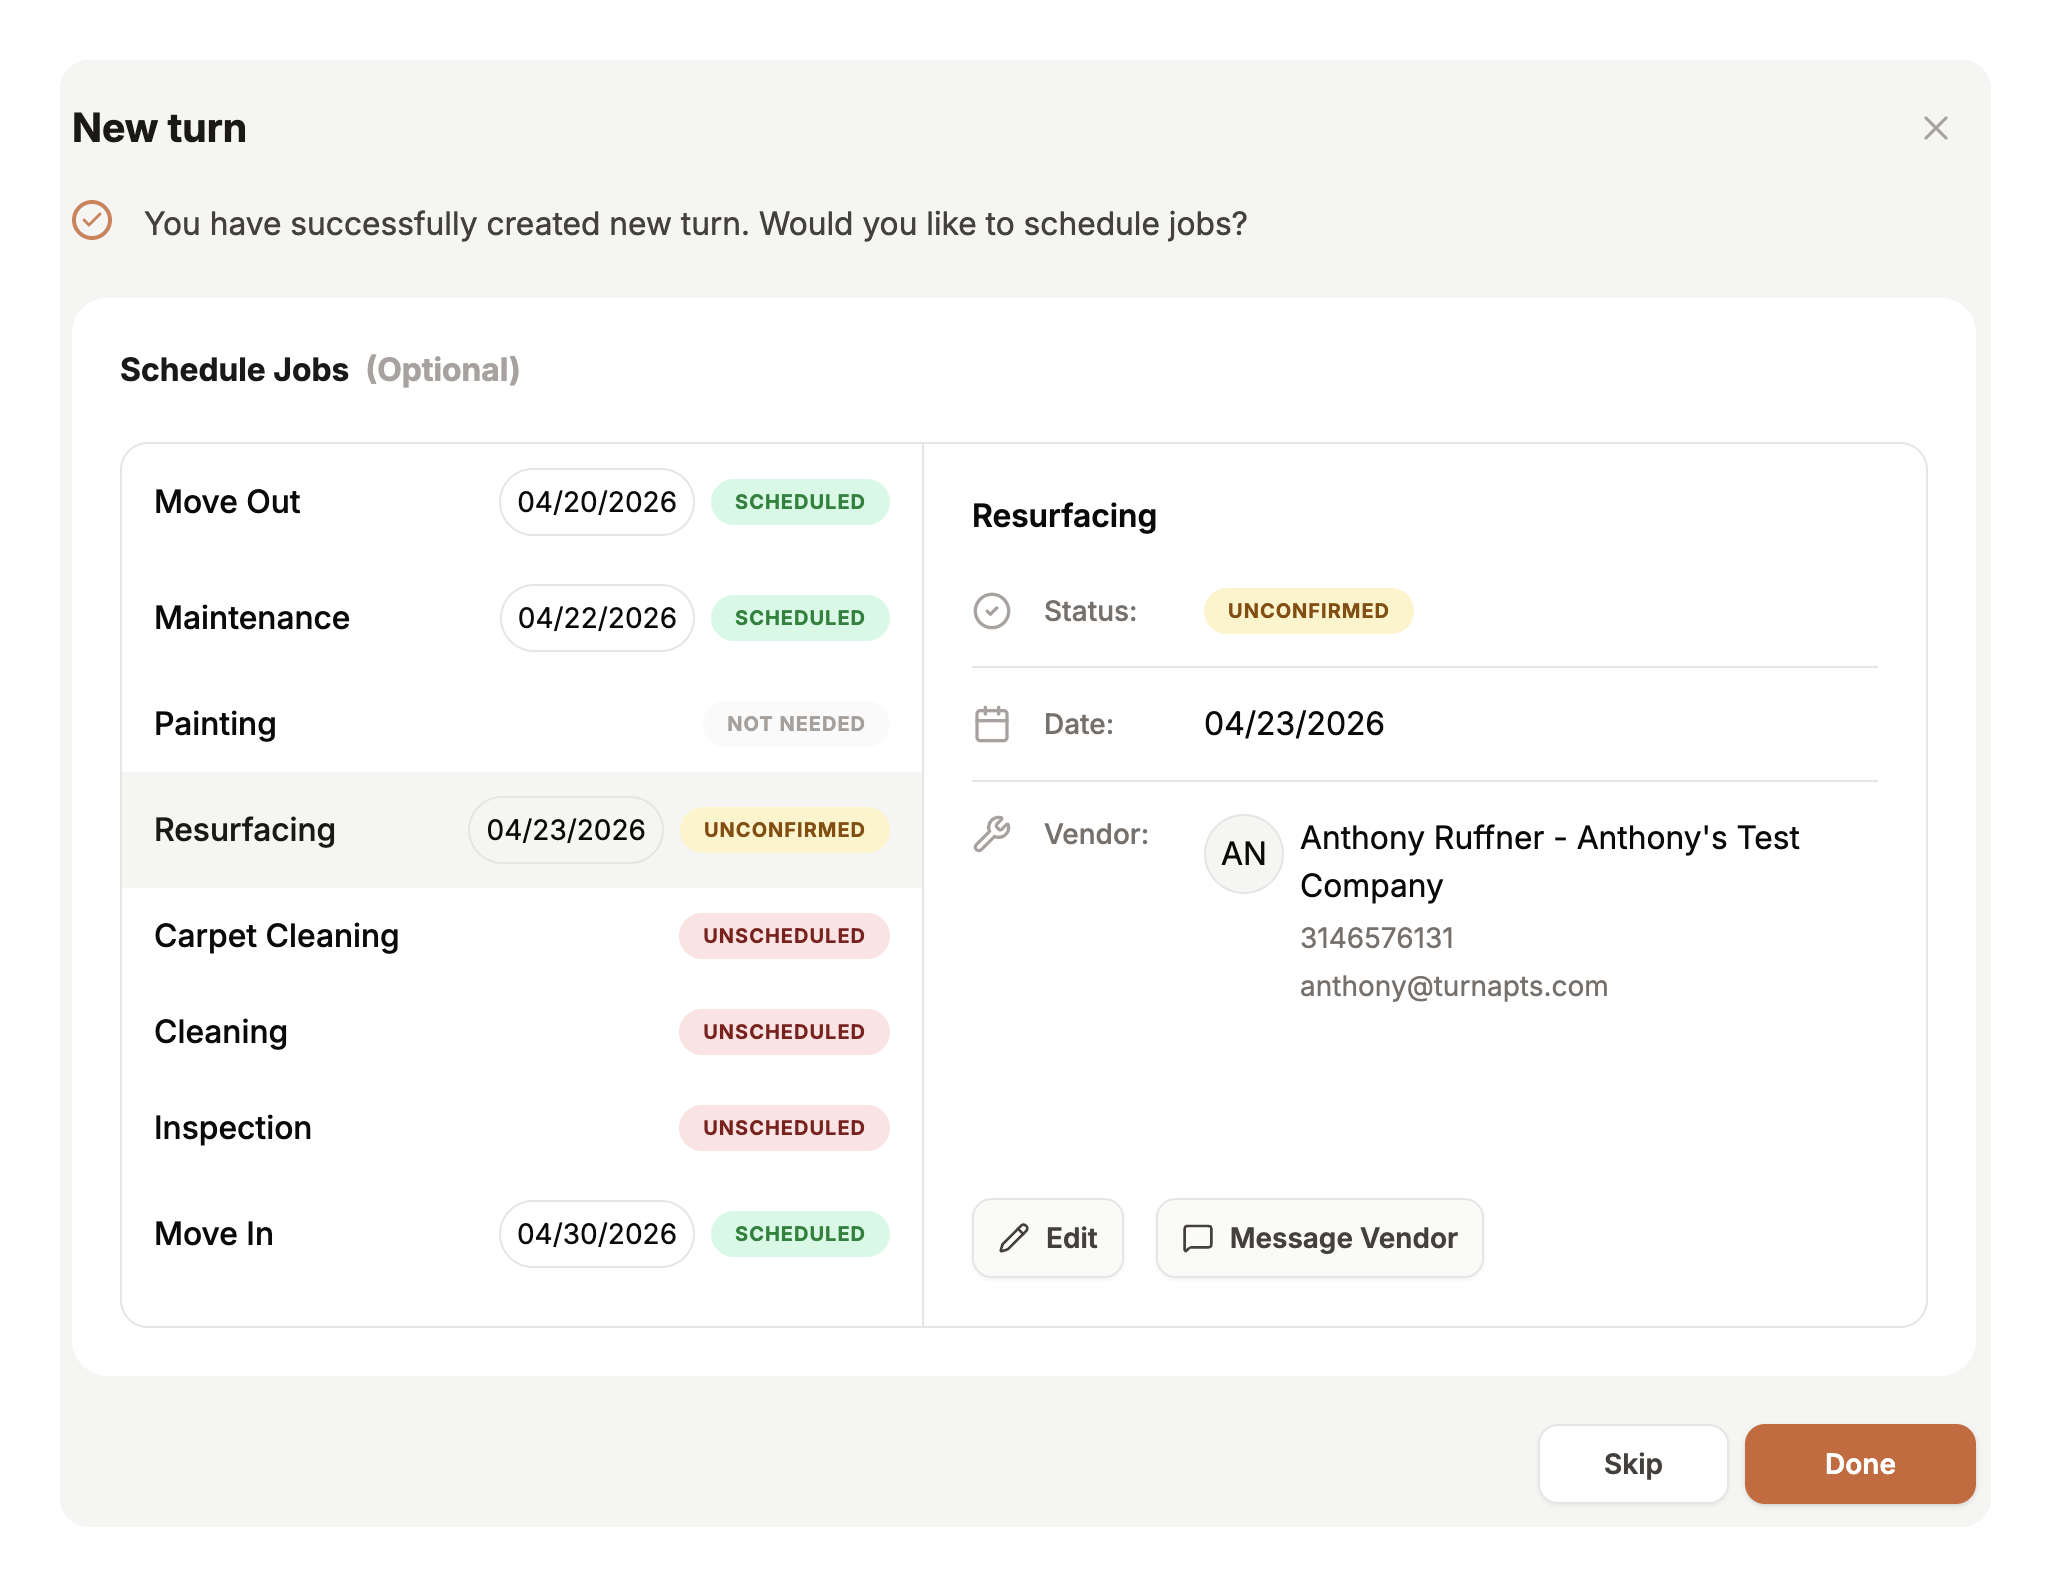
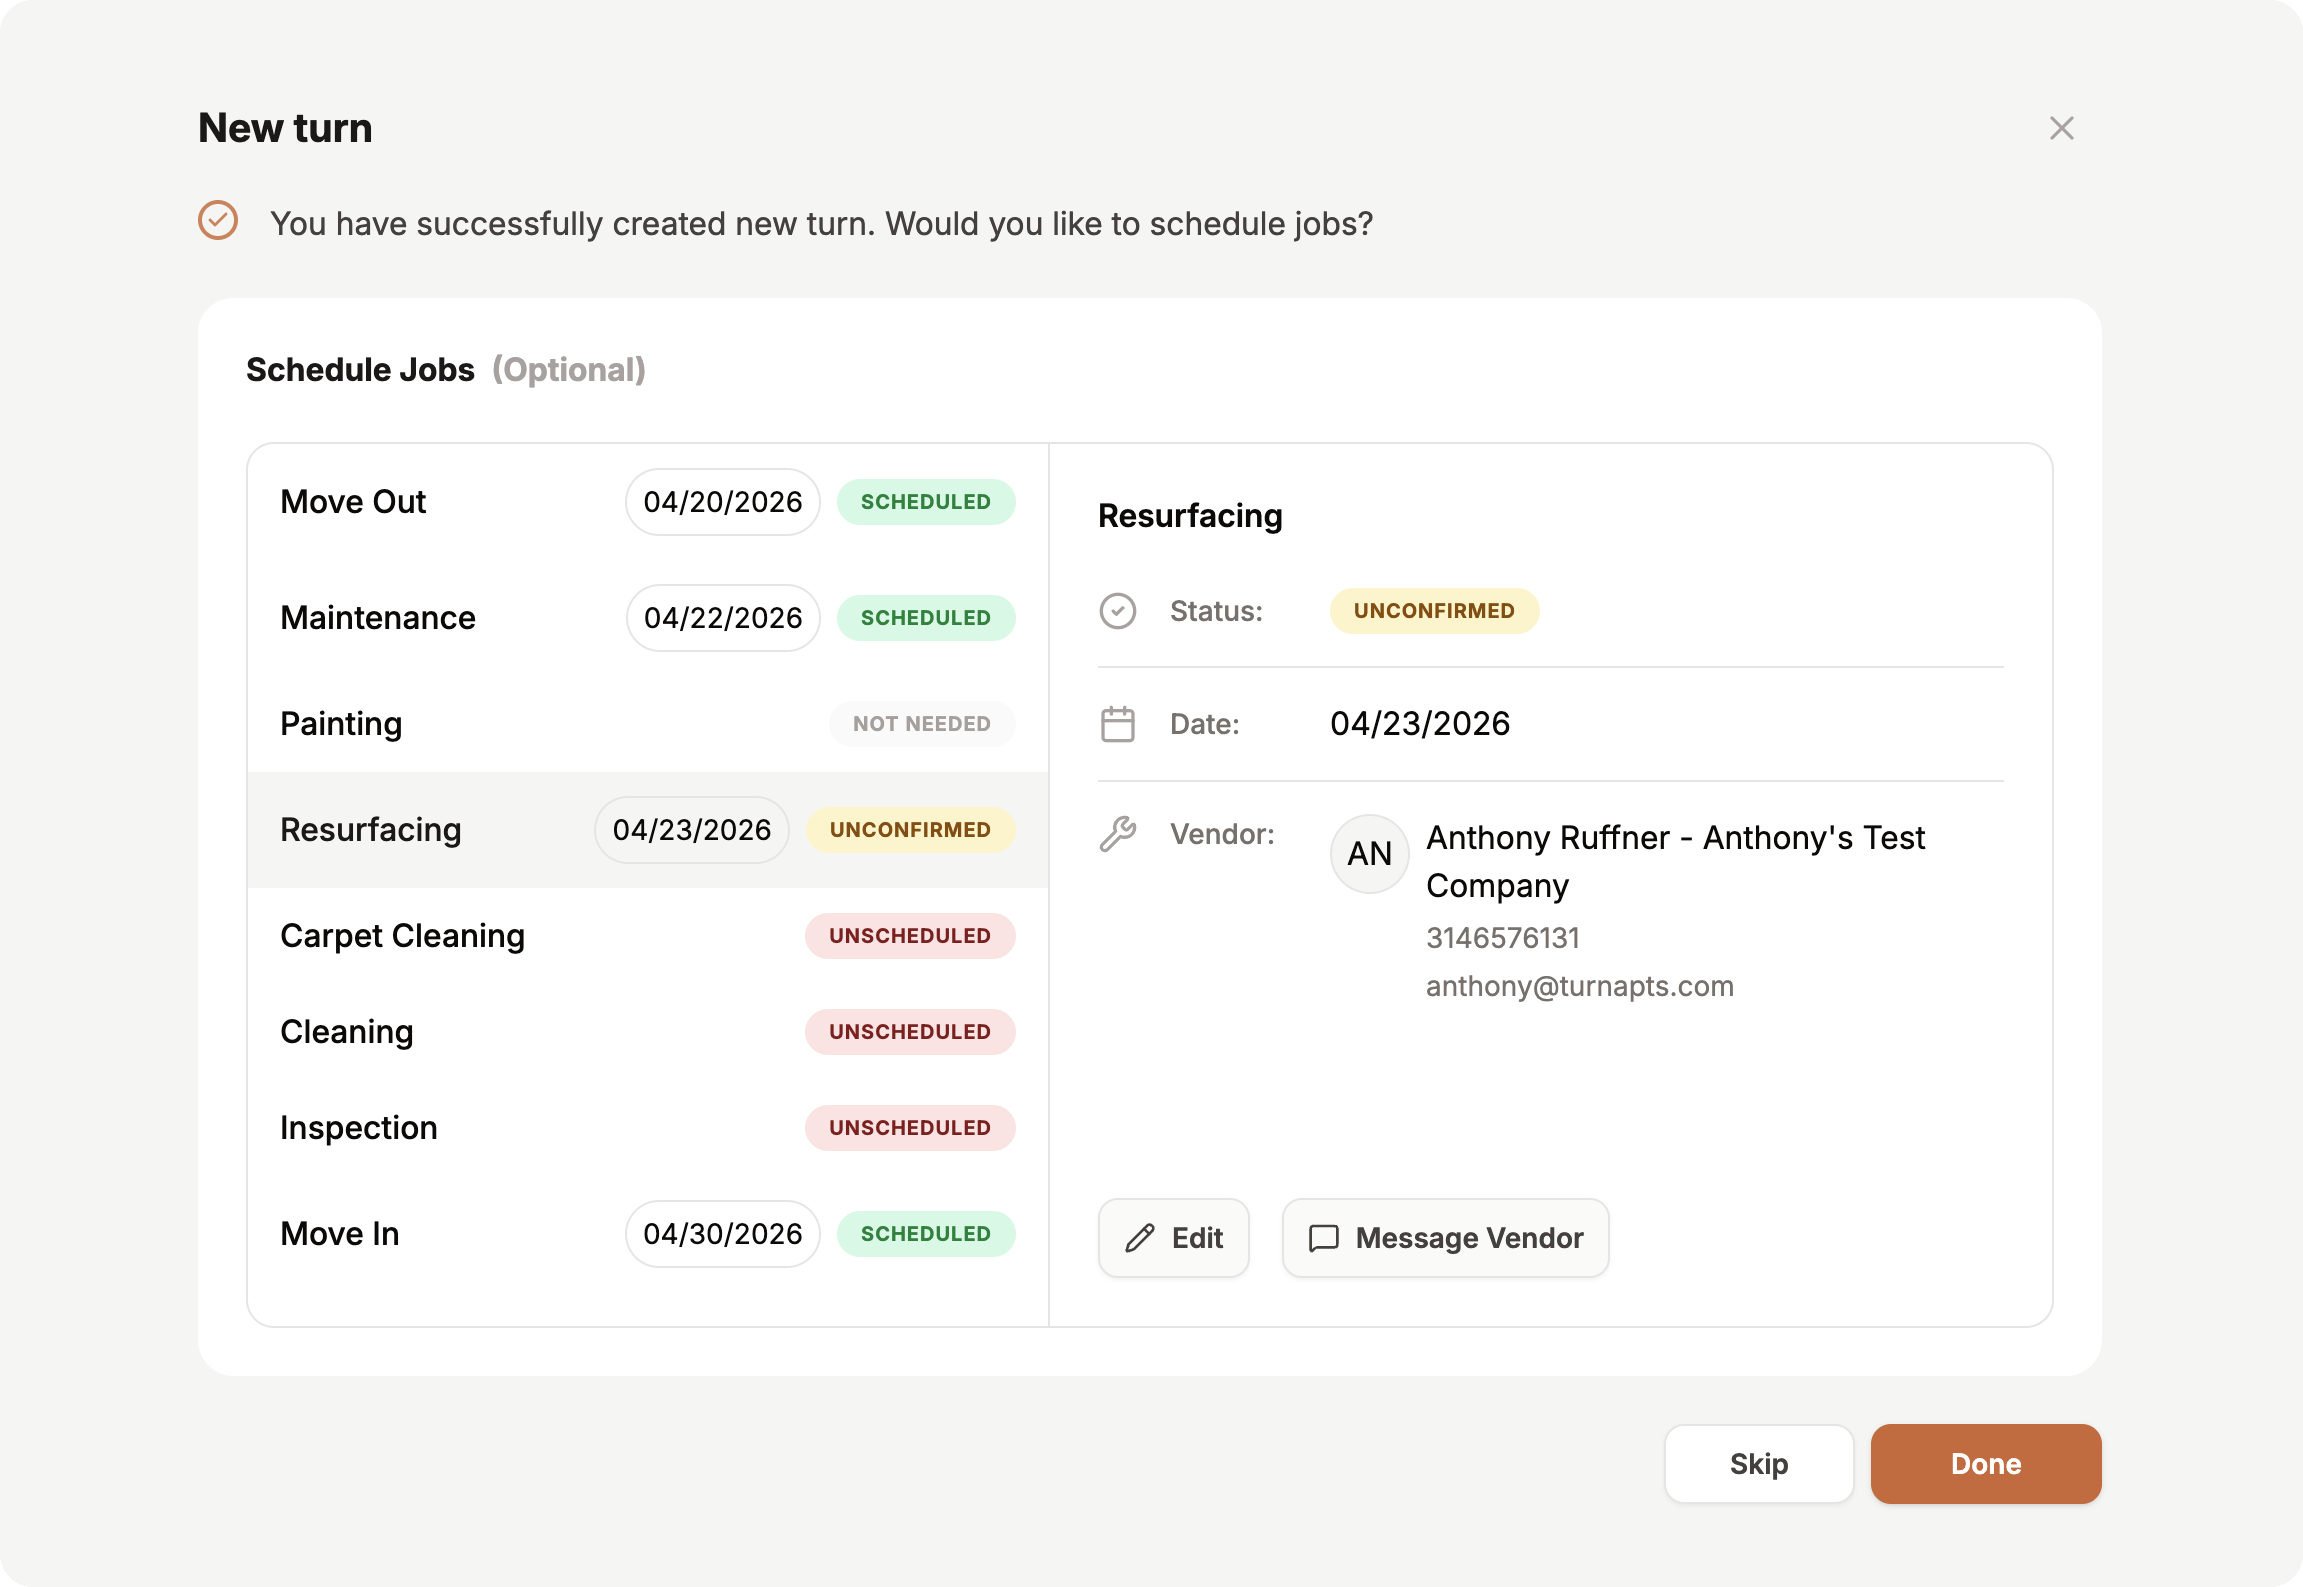
Enlarge Schedule Jobs image, switch to Updated Alerts, extend horizontal background

diff --git a/features.html b/features.html
@@ -856,7 +856,7 @@
                         <p class="p-feature-body">Schedule every vendor step for a unit and watch your board update automatically as work gets done. Each unit shows its current status, what's pending, and who's responsible without you having to ask.</p>
                     </div>
                     <div class="feature-img-wrap">
-                        <img src="assets/Schedule Jobs.png" alt="Schedule Jobs" class="feature-img" style="width:97.75%;">
+                        <img src="assets/Schedule Jobs.png" alt="Schedule Jobs" class="feature-img" style="width:100%;">
                     </div>
                 </div>
             </div>
@@ -901,7 +901,7 @@
                         <p class="p-feature-body">TURN confirms every job with your vendor before the scheduled date. If a vendor is late, declines, or goes silent, you're alerted immediately with options to reassign or follow up. You find out about problems before they become delays.</p>
                     </div>
                     <div class="feature-img-wrap">
-                        <img src="assets/Alerts.png" alt="Real-Time Alerts" class="feature-img">
+                        <img src="assets/Updated Alerts.png" alt="Real-Time Alerts" class="feature-img">
                     </div>
                 </div>
             </div>
